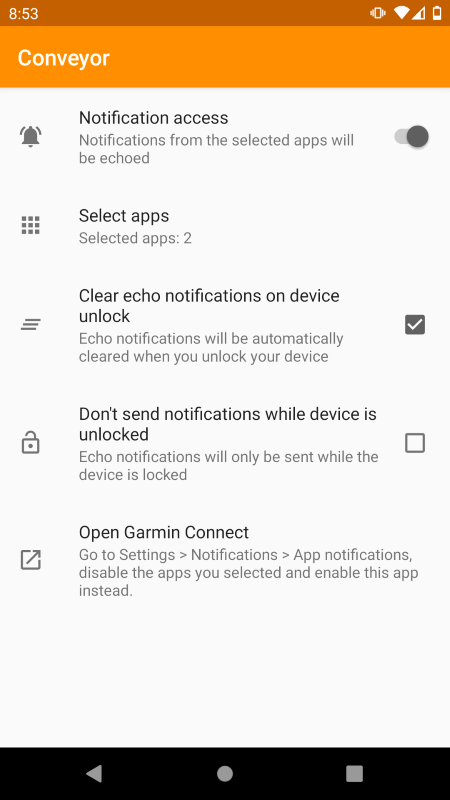
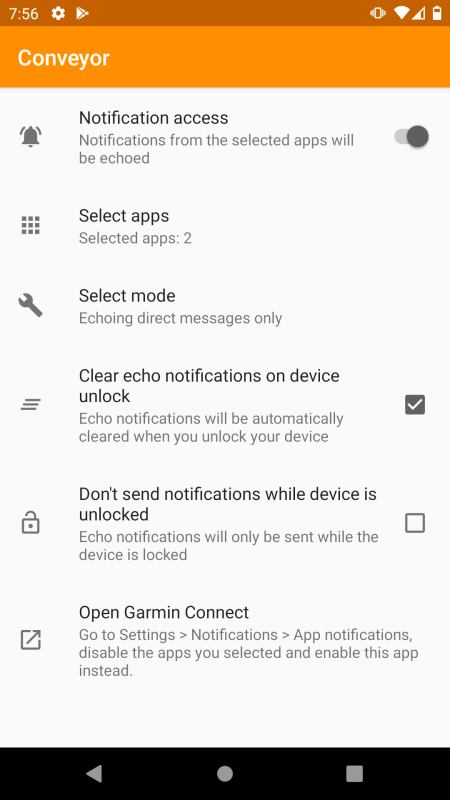
Update readme with 'modes' information

diff --git a/README.md b/README.md
@@ -24,6 +24,8 @@ By reading the notifications and resending them in a different format, Conveyor 
 
 Notifications from the app whose notifications are being reformatted and echoed should be disabled in the Garmin Connect app, so only the notification from *Conveyor* is passed to the smart device.
 
+Conveyor has 3 modes: It can echo all of the notifications for the selected apps (default), echo only group messages, or echo only direct messages. This way, your smartwatch can receive just a specific type of notifications from your apps. This feature is quite unique and works with any messaging app that sends structured notifications.
+
 The app was tested with Discord, Whatsapp and Telegram, but it has been designed work with **every** Android chat app. 
 
 ## Demo
